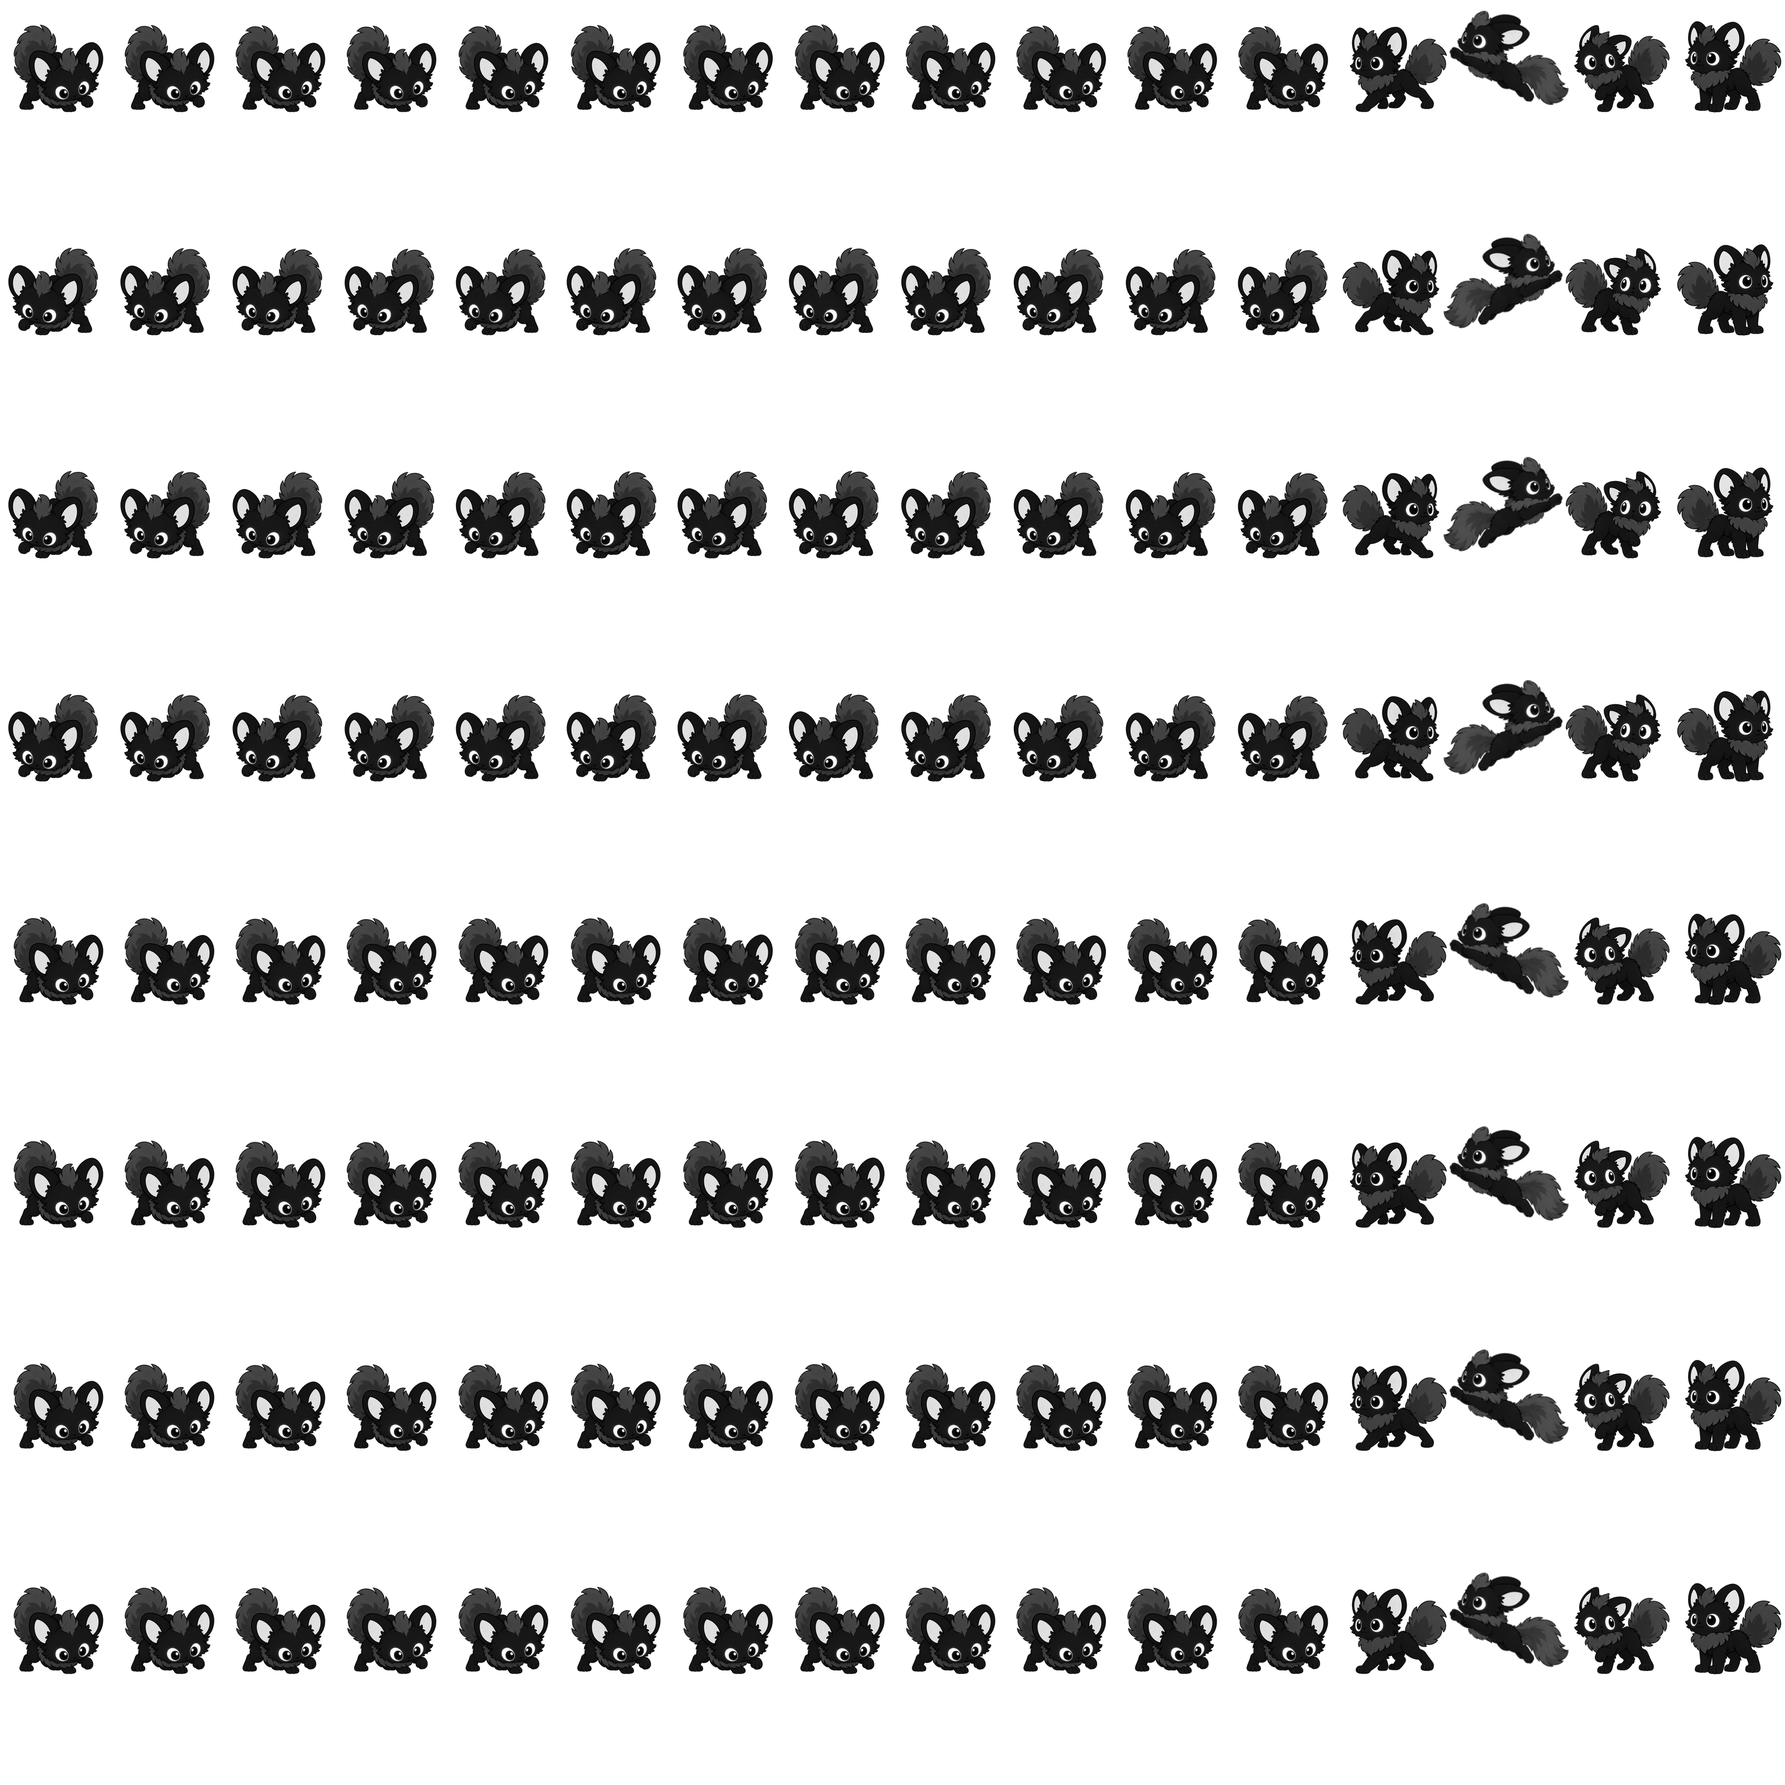
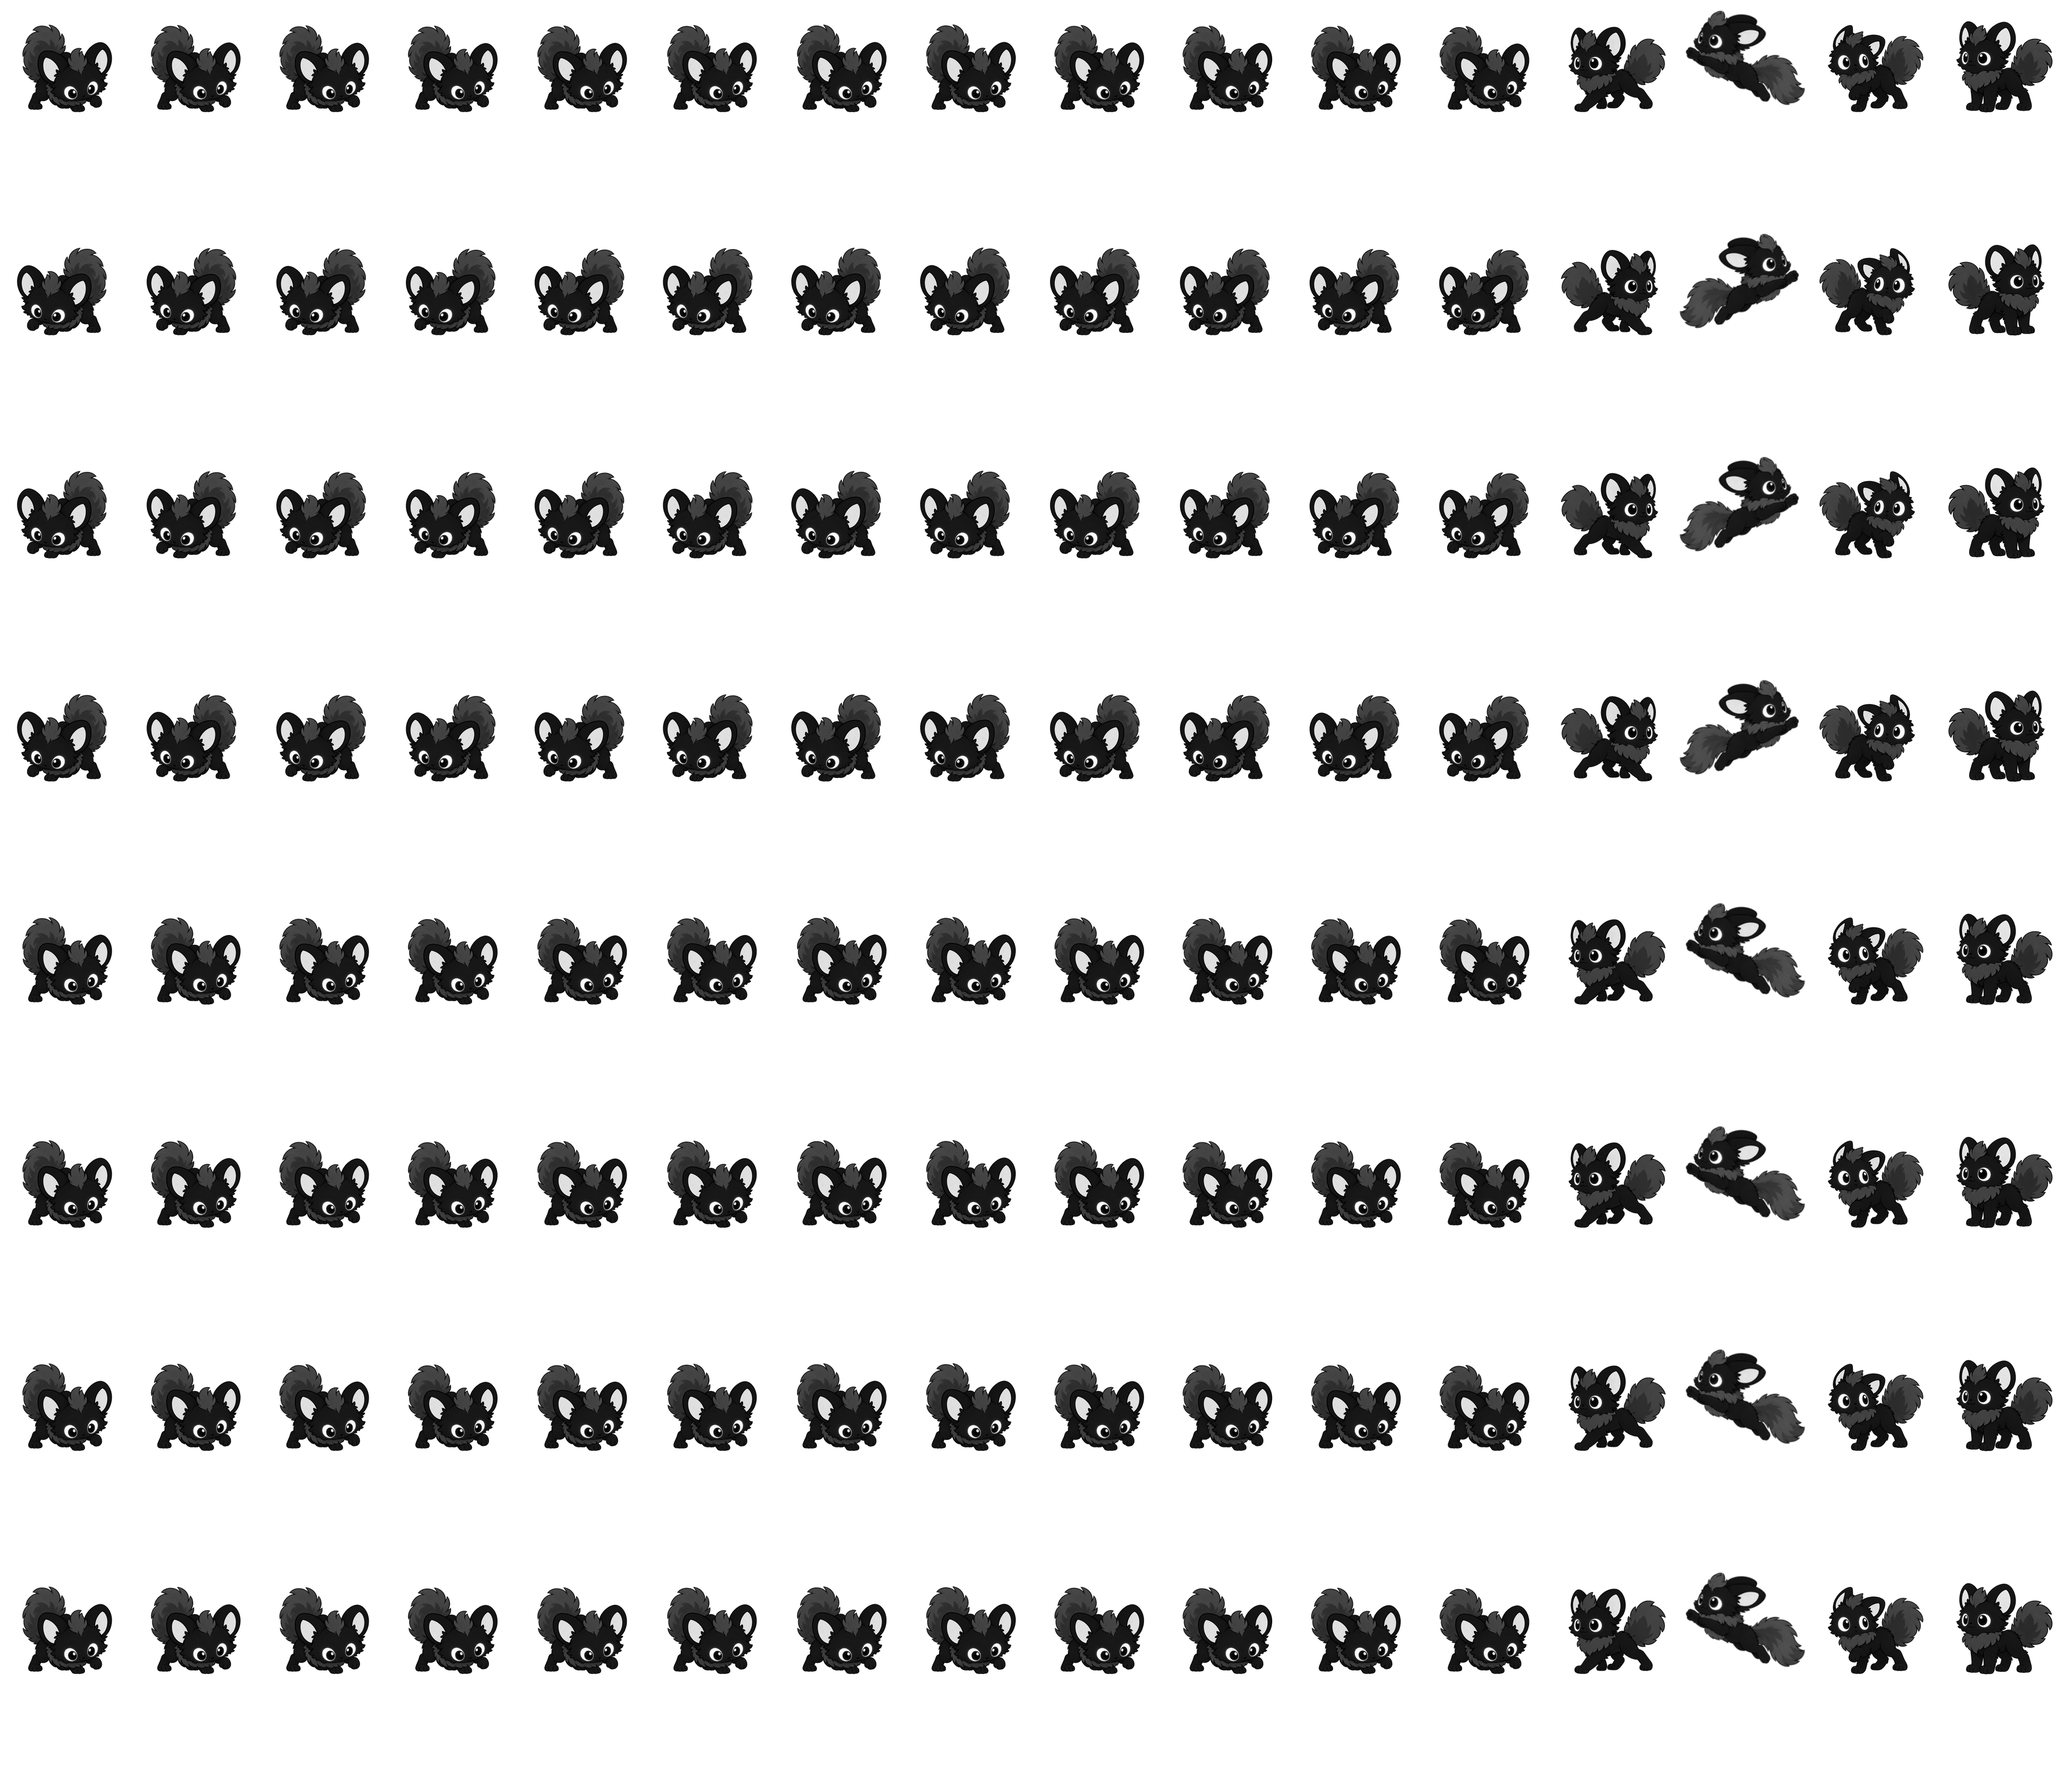
Keep the tail attached when falling and charging instead of poking into the next frame

diff --git a/tests/test_figures.py b/tests/test_figures.py
@@ -1,0 +1,46 @@
+import isolate  # noqa: F401  (immer zuerst: Tests schreiben nie in die echten Walkie-Ordner)
+
+import unittest
+import xml.etree.ElementTree as ET
+from pathlib import Path
+
+try:
+    from PyQt6.QtGui import QImage
+except ImportError:                     # pragma: no cover – ohne Qt nichts zu prüfen
+    QImage = None
+
+FIGURES = Path(__file__).resolve().parent.parent / "figures"
+
+
+@unittest.skipIf(QImage is None, "PyQt6 fehlt")
+class FrameEdgeTest(unittest.TestCase):
+    """Kein Bild der großen, weich gezeichneten Figuren darf seinen Zellenrand berühren. Sonst
+    ist dort etwas abgeschnitten, und das Stück ragt ins Nachbarbild – z. B. eine Schwanzspitze,
+    die beim Fallen lose unter der Figur hängt. (Die kleinen Pixel-Figuren füllen ihre Zelle
+    absichtlich genau aus.)"""
+    SMOOTH = ("walkie",)
+
+    def test_no_frame_touches_its_cell_edge(self):
+        bad = []
+        for xml in (FIGURES / f / "AnimData.xml" for f in self.SMOOTH):
+            for a in ET.parse(xml).getroot().iter("Anim"):
+                name = a.findtext("Name")
+                png = xml.parent / f"{name}-Anim.png"
+                if a.findtext("CopyOf") or not png.exists():
+                    continue
+                w, h = int(a.findtext("FrameWidth")), int(a.findtext("FrameHeight"))
+                img = QImage(str(png))
+                for r in range(img.height() // h):
+                    for i in range(len(a.find("Durations"))):
+                        x0, y0 = i * w, r * h
+                        edge = [(x0 + x, y0) for x in range(w)] + \
+                               [(x0 + x, y0 + h - 1) for x in range(w)] + \
+                               [(x0, y0 + y) for y in range(h)] + \
+                               [(x0 + w - 1, y0 + y) for y in range(h)]
+                        if any(img.pixelColor(x, y).alpha() > 40 for x, y in edge):
+                            bad.append(f"{xml.parent.name}/{name} Reihe {r} Bild {i}")
+        self.assertEqual(bad, [])
+
+
+if __name__ == "__main__":
+    unittest.main()
